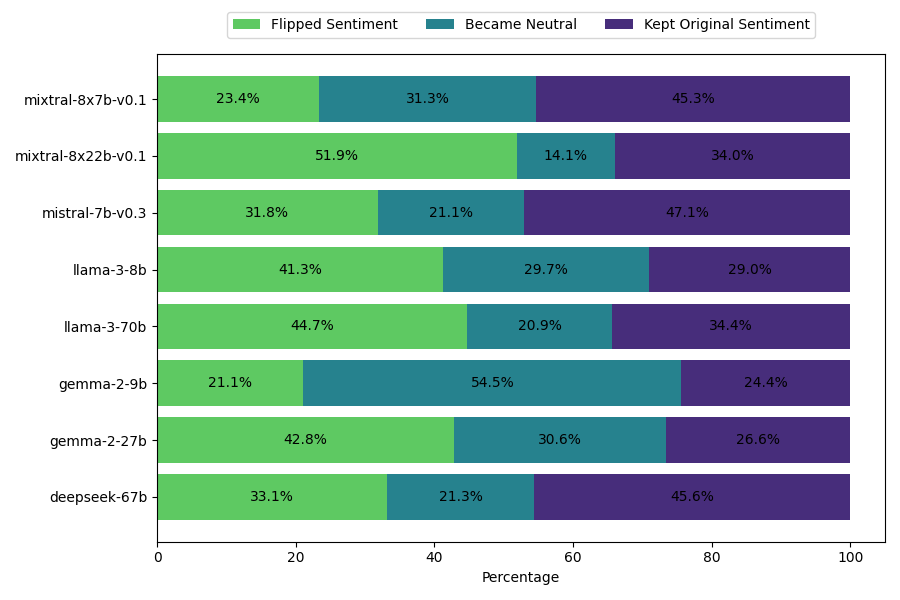
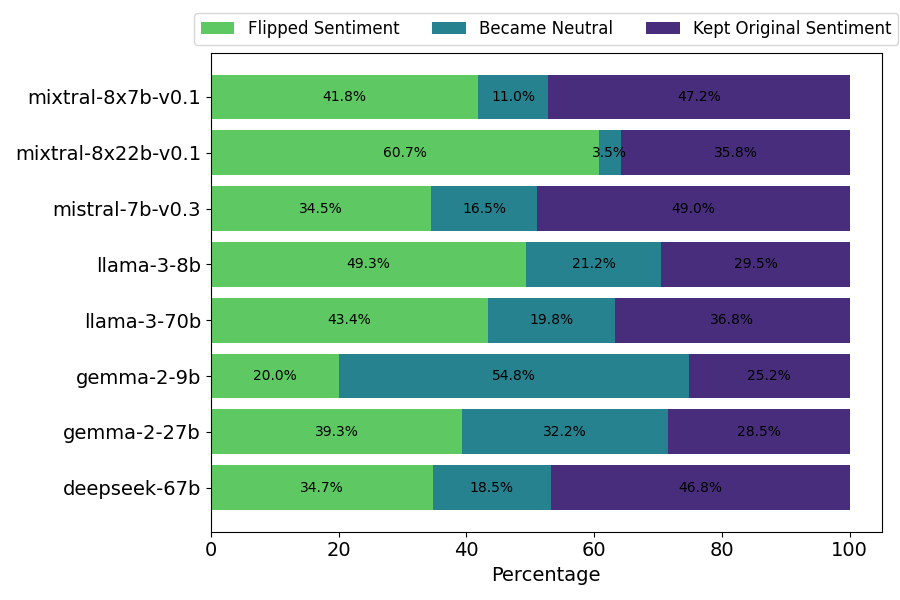
adjust sizes

diff --git a/analysis/visualize.py b/analysis/visualize.py
@@ -17,10 +17,31 @@ import matplotlib.pyplot as plt
 import numpy as np
 from matplotlib.colors import Normalize
 from sklearn.metrics.pairwise import cosine_similarity
-from scipy.spatial.distance import cdist
+import seaborn as sns
 
 company_names = ['google', 'mistralai', 'deepseek-ai', 'meta-llama']
-
+MAP_MODELS_TO_COLORS = {
+        "gemma2-2b": "#FFB3B3",
+        "gemma-2-9b": "#FFB3B3",  # Light Red
+        "gemma-2-9b-with-neutral": "#FFB3B3",
+        "gemma-2-27b": "#FF0000",  # Dark Red
+        "mistral-7b-v0.3": "#ADD8E6",  # Light Blue
+        "mistral-7b-v0.3-try1": "#ADD8E6",  # Light Blue
+        "mistral-7b-v0.3-try2": "#ADD8E6",  # Light Blue
+        "mistral-7b-v0.3-with-neutral": "#ADD8E6",  # Light Blue
+        "mistral-7b-v0.3-from-ollama": "#ADD8E6",
+        "mixtral-8x7b-v0.1": "#6495ED",  # Medium Blue
+        "mixtral-8x22b-v0.1": "#0000FF",  # Dark Blue
+        "deepseek-67b": "#CBA6FF",  # Medium Purple
+        "qwen2.5-7b": "#FFD580",  # Light Orange
+        "qwen2.5-14b": "#FFA500",  # Medium Orange
+        "qwen2.5-72b": "#FF8C00",  # Dark Orange
+        "llama-3-8b": "#90EE90",  # Light Green
+        "llama-3-8b-with-neutral": "#90EE90",  # Light Green
+        "llama3.1-8b": "#90EE90",
+        "llama-3-70b": "#008000",  # Dark Green
+        "phi3.5-3.8b": "#FF69B4",  # Medium Pink
+    }
 
 
 def generate_labels_csv(models_dir, human_annotations_path):
@@ -60,11 +81,10 @@ def generate_labels_csv(models_dir, human_annotations_path):
     return df_scores
 
 
-
-# Function to determine color based on value
 def get_color(value):
     norm = Normalize(vmin=0, vmax=8)
     return plt.cm.viridis(norm(7-value))
+
 
 def mean_absolute_distance(v1, v2):
     return np.mean(np.abs(v1 - v2)).round(2)
@@ -72,146 +92,64 @@ def mean_absolute_distance(v1, v2):
 
 def run_analysis(models_dir, human_annotations_path, out_dir):
     df_scores = generate_labels_csv(models_dir, human_annotations_path)
-    pairwise_cosine_similarity = cosine_similarity(df_scores.iloc[:, 2:].T)
-    pairwise_cosine_similarity = np.round(pairwise_cosine_similarity, 2)
-
-
-    fig, ax = plt.subplots(figsize=(12, 8))
-    cax = ax.imshow(pairwise_cosine_similarity, cmap="Reds", aspect="auto", vmin=0.5, vmax=1)
-    cbar = fig.colorbar(cax)
-    cbar.set_label("Cosine Similarity")
-
-    ax.set_xticks(range(len(df_scores.columns[2:])), df_scores.columns[2:], rotation=90)
-    ax.set_yticks(range(len(df_scores.columns[2:])), df_scores.columns[2:])
-    ax.set_title("Pairwise Cosine Similarity")
-    # Add annotations (text on the heatmap)
-    for i in range(len(pairwise_cosine_similarity)):
-        for j in range(len(pairwise_cosine_similarity)):
-            ax.text(j, i, f'{pairwise_cosine_similarity[i, j]:.2f}',
-                    ha='center', va='center', color='black')
-    plt.tight_layout()
-    plt.savefig(os.path.join(out_dir, 'pairwise_cosine_similarity.png'))
 
     correlation_matrix = df_scores.iloc[:, 2:].corr()
     only_model_correlation = correlation_matrix[1:].drop(columns=['humans'])
     only_humans_correlation = correlation_matrix['humans'].drop(index=['humans'])
-    models_with_colors = {
-        "gemma2-2b": "#FFB3B3",
-        "gemma-2-9b": "#FFB3B3",  # Light Red
-        "gemma-2-9b-with-neutral": "#FFB3B3",
-        "gemma-2-27b": "#FF0000",  # Dark Red
-        "mistral-7b-v0.3": "#ADD8E6",  # Light Blue
-        "mistral-7b-v0.3-try1": "#ADD8E6",  # Light Blue
-        "mistral-7b-v0.3-try2": "#ADD8E6",  # Light Blue
-        "mistral-7b-v0.3-with-neutral": "#ADD8E6",  # Light Blue
-        "mistral-7b-v0.3-from-ollama": "#ADD8E6",
-        "mixtral-8x7b-v0.1": "#6495ED",  # Medium Blue
-        "mixtral-8x22b-v0.1": "#0000FF",  # Dark Blue
-        "deepseek-67b": "#CBA6FF",  # Medium Purple
-        "qwen2.5-7b": "#FFD580",  # Light Orange
-        "qwen2.5-14b": "#FFA500",  # Medium Orange
-        "qwen2.5-72b": "#FF8C00",  # Dark Orange
-        "llama-3-8b": "#90EE90",  # Light Green
-        "llama-3-8b-with-neutral": "#90EE90",  # Light Green
-        "llama3.1-8b": "#90EE90",
-        "llama-3-70b": "#008000",  # Dark Green
-        "phi3.5-3.8b": "#FF69B4",  # Medium Pink
-    }
-    colors = [models_with_colors[model] for model in only_model_correlation.index]
+
+
     # bar chart for humans
-    fig, ax = plt.subplots(figsize=(12, 8))
-    ax.barh(only_humans_correlation.index, only_humans_correlation.values, color=colors)
-    # set x lim to 1
-    # ax.set_xlim(0, 1)
+    colors = [MAP_MODELS_TO_COLORS[model] for model in only_model_correlation.index]
+    fig, ax = plt.subplots(figsize=(6, 4))
+    bars = ax.barh(only_humans_correlation.index, only_humans_correlation.values, color=colors)
+    # Add text labels with the values
+    for bar in bars:
+        width = bar.get_width()  # Get the width of each bar (corresponding to the value)
+        ax.text(
+            width - 0.07,  # Slightly offset the text from the bar's end
+            bar.get_y() + bar.get_height() / 2,  # Center vertically
+            f"{width:.2f}",  # Format the value to 2 decimal places
+            va='center',  # Align vertically
+            ha='left'  # Align horizontally
+        )
     ax.set_xlabel("Pearson Coefficient")
     plt.tight_layout()
     plt.savefig(os.path.join(out_dir, 'correlation_with_humans.png'))
-    masked_data = np.tril(only_model_correlation)
-    fig, ax = plt.subplots(figsize=(12, 8))
-    cax = ax.imshow(masked_data, cmap="Reds", aspect="auto", vmin=0, vmax=1, interpolation='none',)
-    cbar = fig.colorbar(cax)
-    cbar.set_label("Pearson Coefficient")
-    for spine in ax.spines.values():
-        spine.set_visible(False)
 
-    ax.set_xticks(range(len(only_model_correlation)), only_model_correlation.columns, rotation=90)
-    ax.set_yticks(range(len(only_model_correlation)), only_model_correlation.columns)
-    # Add annotations (text on the heatmap)
-    for i in range(len(only_model_correlation)):
-        for j in range(len(only_model_correlation)):
-            if i < j:
-                continue
-            ax.text(j, i, f'{only_model_correlation.iloc[i, j]:.2f}',
-                    ha='center', va='center', color='black')
+    # heatmap for models
+    mask = np.triu(np.ones_like(only_model_correlation, dtype=bool), k=1)    # Upper triangle and diagonal mask
+    plt.figure(figsize=(8, 6))
+    ax = sns.heatmap(only_model_correlation, mask=mask, cmap="Reds", annot=True, fmt=".2f", vmin=0, vmax=1,
+                cbar=True, square=True, linewidths=0.3, cbar_kws={'label': 'Correlation Coefficient'})
+
+    ax.set_xticks(np.arange(len(only_model_correlation)) + 0.5)  # Set tick positions to cell centers
+    labels_x = only_model_correlation.columns.to_list()
+    ax.set_xticklabels(labels_x, rotation=90, ha='center')  # Set x-axis tick labels
+    ax.set_yticks(np.arange(len(only_model_correlation)) + 0.5)  # Set tick positions to cell centers
+    labels_y = only_model_correlation.columns.to_list()
+    ax.set_yticklabels(labels_y,  rotation=0, va='center')  # Set y-axis tick labels
     plt.tight_layout()
     plt.savefig(os.path.join(out_dir, 'pairwise_correlation_matrix.png'))
 
-    only_models = df_scores.iloc[:, 2:].T
-    vectors = only_models.values
-    # Compute pairwise mean absolute distances
-    num_vectors = len(vectors)
-    mad_matrix = np.zeros((num_vectors, num_vectors))
-
-    for i in range(num_vectors):
-        for j in range(num_vectors):
-            mad_matrix[i, j] = mean_absolute_distance(vectors[i], vectors[j])
-
-    fig, ax = plt.subplots(figsize=(12, 8))
-    cax = ax.imshow(mad_matrix, cmap="Reds_r", aspect="auto", vmin=0, vmax=0.5)
-    cbar = fig.colorbar(cax)
-    cbar.set_label("Absolute Difference")
-    cbar.ax.invert_yaxis()
-
-    ax.set_xticks(range(len(df_scores.columns[2:])), df_scores.columns[2:], rotation=90)
-    ax.set_yticks(range(len(df_scores.columns[2:])), df_scores.columns[2:])
-    ax.set_title("Pairwise Absolute Difference")
-    # Add annotations (text on the heatmap)
-    for i in range(len(mad_matrix)):
-        for j in range(len(mad_matrix)):
-            ax.text(j, i, f'{mad_matrix[i, j]:.2f}',
-                    ha='center', va='center', color='black')
-    plt.tight_layout()
-    plt.savefig(os.path.join(out_dir, 'pairwise_absolute_diff.png'))
-
-    all_models = {}
-    for file_name in os.listdir(models_dir):
-        name = get_model_name_for_print(file_name)
-        all_models[name] = pd.read_csv(os.path.join(models_dir, file_name))
-    human_annotations = pd.read_csv(human_annotations_path)
-    model_names = sorted(list(all_models.keys()))
+    model_names = sorted(list(df_scores.columns[3:]))
     all_model_results = []
+    group_by_original_sentiment = df_scores.groupby('base_sentiment')
+
     for model in model_names:
-        orig_positive_flipped = []
-        orig_negative_flipped = []
-        orig_positive_became_neutral = []
-        orig_negative_became_neutral = []
-        orig_positive_kept = []
-        orig_negative_kept = []
-        total_flipped = []
-        total_became_neutral = []
-        total_kept = []
-        for i, row in all_models[model].iterrows():
-            original_sentiment = row['answer']
-            opposite_framing_sentiment = row['opposite_framing_processed_pred']
-            sentence_id = row['ID']
-            if original_sentiment == opposite_framing_sentiment:
-                total_kept.append(sentence_id)
-                if original_sentiment == 'positive':
-                    orig_positive_kept.append(sentence_id)
-                else:  # original_sentiment == 'negative'
-                    orig_negative_kept.append(sentence_id)
-            elif opposite_framing_sentiment == 'positive':  # original_sentiment == 'negative'
-                total_flipped.append(sentence_id)
-                orig_negative_flipped.append(sentence_id)
-            elif opposite_framing_sentiment == 'negative':  # original_sentiment == 'positive'
-                total_flipped.append(sentence_id)
-                orig_positive_flipped.append(sentence_id)
-            else: # opposite_framing_sentiment == 'neutral'
-                total_became_neutral.append(sentence_id)
-                if original_sentiment == 'positive':
-                    orig_positive_became_neutral.append(sentence_id)
-                else:  # original_sentiment == 'negative'
-                    orig_negative_became_neutral.append(sentence_id)
+        df_model_positive = group_by_original_sentiment.get_group('positive')[['sentence_id', model]]
+        orig_positive_flipped = df_model_positive[df_model_positive[model] == 1]['sentence_id'].to_list()
+        orig_positive_became_neutral = df_model_positive[df_model_positive[model] == 0.5]['sentence_id'].to_list()
+        orig_positive_kept = df_model_positive[df_model_positive[model] == 0]['sentence_id'].to_list()
+
+        df_model_negative = group_by_original_sentiment.get_group('negative')[['sentence_id', model]]
+        orig_negative_flipped = df_model_negative[df_model_negative[model] == 1]['sentence_id'].to_list()
+        orig_negative_became_neutral = df_model_negative[df_model_negative[model] == 0.5]['sentence_id'].to_list()
+        orig_negative_kept = df_model_negative[df_model_negative[model] == 0]['sentence_id'].to_list()
+
+        total_flipped = orig_positive_flipped + orig_negative_flipped
+        total_became_neutral = orig_positive_became_neutral + orig_negative_became_neutral
+        total_kept = orig_positive_kept + orig_negative_kept
+
         all_model_results.append(
             {'model': model, 'orig_positive_flipped': orig_positive_flipped,
              'orig_negative_flipped': orig_negative_flipped,
@@ -220,54 +158,23 @@ def run_analysis(models_dir, human_annotations_path, out_dir):
              'orig_positive_kept': orig_positive_kept,
              'orig_negative_kept': orig_negative_kept, 'total_flipped': total_flipped,
              'total_became_neutral': total_became_neutral, 'total_kept': total_kept})
-    flipped_total = {i: [] for i in range(6)}
-    flipped_positive = {i: [] for i in range(6)}
-    flipped_negative = {i: [] for i in range(6)}
 
-    # todo for each sentence id, what did the models label? 0 is kept the same, 1 is flipped, 2 is became neutral
-    # num_models = predictions.shape[1]
-    #
-    # # Calculate agreement matrix
-    # agreement_matrix = np.zeros((num_models, num_models))
-    #
-    # for i in range(num_models):
-    #     for j in range(num_models):
-    #         agreement = np.mean(predictions[:, i] == predictions[:, j])
-    #         agreement_matrix[i, j] = agreement
-    #
-    # # Plot heatmap
-    # plt.figure(figsize=(8, 6))
-    # sns.heatmap(agreement_matrix, annot=True, fmt=".2f", cmap="Blues",
-    #             xticklabels=[f'Model {i + 1}' for i in range(num_models)],
-    #             yticklabels=[f'Model {i + 1}' for i in range(num_models)])
-    # plt.title("Model Agreement Heatmap")
-    # plt.xlabel("Models")
-    # plt.ylabel("Models")
-    # plt.tight_layout()
-    # plt.show()
+    plot_model_distribution(all_model_results, model_names, key='total', dir_path=out_dir)
+    plot_model_distribution(all_model_results, model_names, key='orig_positive', dir_path=out_dir)
+    plot_model_distribution(all_model_results, model_names, key='orig_negative', dir_path=out_dir)
 
+    # humans distribution
+    positive_humans = (group_by_original_sentiment.get_group('positive')['humans']*5).apply(round)
+    flipped_positive = positive_humans.value_counts()
+    negative_humans = (group_by_original_sentiment.get_group('negative')['humans']*5).apply(round)
+    flipped_negative = negative_humans.value_counts()
 
-    for i, row in human_annotations.iterrows():
-        number_voted_majority = int(row['majority_confidence'] * 5)
-        if row['sentiment_flip_after_framing']:
-            flipped_total[number_voted_majority].append(row['sentence_id'])
-            if row['base_sentiment'] == 'positive':
-                flipped_positive[number_voted_majority].append(row['sentence_id'])
-            else:  # row['base_sentiment'] == 'negative'
-                flipped_negative[number_voted_majority].append(row['sentence_id'])
-        else:
-            flipped_total[5-number_voted_majority].append(row['sentence_id'])
-            if row['base_sentiment'] == 'positive':
-                flipped_positive[5-number_voted_majority].append(row['sentence_id'])
-            else:  # row['base_sentiment'] == 'negative'
-                flipped_negative[5-number_voted_majority].append(row['sentence_id'])
     flipped_percentage = [[],[]]
-    total_positive = len(np.concatenate(list(flipped_positive.values())))
-    total_negative = len(np.concatenate(list(flipped_negative.values())))
+    total_positive = len(df_scores[df_scores['base_sentiment'] == 'positive'])
+    total_negative = len(df_scores[df_scores['base_sentiment'] == 'negative'])
     for i in range(6):
-        # flipped_percentage[0].append(round(len(flipped_total[i])/len(human_annotations)*100, 1))
-        flipped_percentage[0].append(round(len(flipped_positive[i]) / total_positive * 100, 1))
-        flipped_percentage[1].append(round(len(flipped_negative[i]) / total_negative * 100, 1))
+        flipped_percentage[0].append(round(flipped_positive[i] / total_positive * 100, 1))
+        flipped_percentage[1].append(round(flipped_negative[i] / total_negative * 100, 1))
     for j in range(2):
         flipped_percentage[j].reverse()
     flipped_percentage = np.array(flipped_percentage)
@@ -289,22 +196,22 @@ def run_analysis(models_dir, human_annotations_path, out_dir):
         for j, value in enumerate(flipped_percentage[:, i]):
             if value == 0:
                 continue
-            ax.text(lefts[j] + value / 2, j, f'{value}%', ha='center', va='center', fontsize=10)
+            ax.text(lefts[j] + value / 2, j, f'{value}%', ha='center', va='center', fontsize=14)
 
         lefts += flipped_percentage[:, i]
 
     # Adding labels and title
-    ax.set_xlabel('Percentage')
-    ax.legend(loc='upper right', bbox_to_anchor=(1, 1.10), ncol=len(categories))
+    ax.set_xlabel('Percentage', fontsize=14)
+    plt.yticks(fontsize=14)
+    plt.xticks(fontsize=14)
+    ax.legend(loc='upper right', bbox_to_anchor=(1, 1.10), ncol=len(categories), fontsize=11)
     plt.tight_layout()
 
     # Show the plot
     path = os.path.join(out_dir, f'humans_distribution.png')
     plt.savefig(path)
 
-    plot_model_distribution(all_model_results, model_names, key='total', dir_path=out_dir)
-    plot_model_distribution(all_model_results, model_names, key='orig_positive', dir_path=out_dir)
-    plot_model_distribution(all_model_results, model_names, key='orig_negative', dir_path=out_dir)
+
 
 
 def get_model_name_for_print(file_name):
@@ -361,8 +268,10 @@ def plot_model_distribution(all_model_results, model_names, key, dir_path):
 
         lefts += all_models_total[:, i]
     # Adding labels and title
-    ax.set_xlabel('Percentage')
-    ax.legend(loc='upper center', bbox_to_anchor=(0.5, 1.10), ncol=len(categories))
+    ax.set_xlabel('Percentage', fontsize=14)
+    plt.yticks(fontsize=14)
+    plt.xticks(fontsize=14)
+    ax.legend(loc='upper center', bbox_to_anchor=(0.5, 1.10), ncol=len(categories), fontsize=12)
     plt.tight_layout()
     # Show the plot
     path = os.path.join(dir_path, f'{key}_models_distribution.png')
